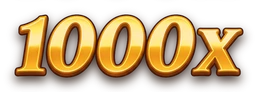
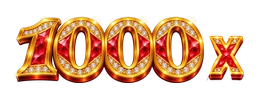
White version: new hourglass win move; new 1000x / 500x labels (equal height) on black chips; rectangular CHARGE chip in the multiplier column

diff --git a/white/src/game.js b/white/src/game.js
@@ -185,7 +185,7 @@
   if (V2ART) { add("Multipliers/chip_bg_nudge5"); add("UI/buy_button"); }
   ["title_big", "title_mega", "title_super", "title_epic", "title_max", "wp_medallion_gold", "wp_medallion_tint", "wp_banner_gold", "wp_banner_tint", "wp_tablet_gold", "wp_tablet_tint"].forEach((n) => files.push(`assets/Popup/${n}.webp`));
   ["chip_coat", "chip_glints", "chip_rim", "chip_shadow"].forEach((n) => add("Multipliers/" + n));
-  ["Multipliers/centre_frame", "UI/nudge_box", "UI/total_box", "UI/counter_screen", "UI/total_plate", "UI/cf_arrow", "vfx/winline", "vfx/winline_rest", "UI/exp_panel", "UI/exp_card_red", "UI/exp_card_amber", "UI/exp_card_purple", "UI/exp_confirm", "UI/buy_label", "UI/ex_plate", "UI/charge_badge", "UI/charge_window", "UI/charge_chev", "UI/charge_digit_0", "UI/charge_digit_1", "UI/charge_digit_2", "UI/charge_digit_3", "UI/charge_digit_4", "UI/charge_digit_5", "UI/charge_digit_6", "UI/charge_digit_7", "UI/charge_digit_8", "UI/charge_digit_9", "UI/charge_digit_slash", "UI/total_x", "UI/ex_switch_off", "UI/ex_switch_on"].forEach((p) => files.push(`assets/${p}.webp`));   // every art set uses these
+  ["Multipliers/centre_frame", "UI/nudge_box", "UI/total_box", "UI/counter_screen", "UI/total_plate", "UI/cf_arrow", "vfx/winline", "vfx/winline_rest", "UI/exp_panel", "UI/exp_card_red", "UI/exp_card_amber", "UI/exp_card_purple", "UI/exp_confirm", "UI/buy_label", "UI/ex_plate", "UI/charge_badge", "UI/charge_window", "UI/charge_chev", "UI/charge_digit_0", "UI/charge_digit_1", "UI/charge_digit_2", "UI/charge_digit_3", "UI/charge_digit_4", "UI/charge_digit_5", "UI/charge_digit_6", "UI/charge_digit_7", "UI/charge_digit_8", "UI/charge_digit_9", "UI/charge_digit_slash", "UI/total_x", "UI/charge_rect", "UI/charge_rect_window", "UI/ex_switch_off", "UI/ex_switch_on"].forEach((p) => files.push(`assets/${p}.webp`));   // every art set uses these
   if (GPASS) ["Board/panel_dark", "Board/tile_low", "Board/tile_low_blur", "Board/tray_dark", "Board/plinth_slim", "Board/plinth_fade", "Board/frame_stone"].forEach((p) => files.push(`assets/${p}.webp`));
   if (COINS) { Engine.MULT_VALUES.forEach((v) => files.push(`assets/Multipliers/coin_${v}.webp`)); ["coin_shadow", "coin_rim", "centre_frame_thin"].forEach((n) => files.push(`assets/Multipliers/${n}.webp`)); }
   ["autoplay", "autoplay_shadow", "balance_bar_border", "balance_bar_fill", "bet_window_border", "bet_window_fill",
@@ -562,7 +562,7 @@
   const magicFilters = [];
   // white: the CHARGE badge in the chip box (badge art 262 x 256 px; its window centre and size in badge px)
   let colDimK = 0;                                     // white: win spotlight on the column (0 = off)
-  const CB = { k: 0.57, wx: 0.6, wy: -34.9, ww: 137.6, wh: 82.8, dk: 0.42 };
+  const CB = { k: 0.44, wx: 0.9, wy: -39.6, ww: 258.9, wh: 80.9, dk: 0.5 };   // white 2026-11-13: the rectangular CHARGE chip
   // WHITE VERSION (user 2026-11-11: "multiplier chips equal or upper 25 should have a glowing or burning frame so they will
   // be visible during the scroll"): a soft fire glow behind the chip and a hot rim line over it, tinted per value
   const HOT_COL = { 25: 0xff7a14, 50: 0xff5a10, 100: 0xff3a10, 200: 0xff4a0c, 500: 0xff6a08, 1000: 0xffa020 };
@@ -624,19 +624,20 @@
     chargeBuild() {
       const cs = (t) => { const s = new PIXI.Sprite(T(t)); s.anchor.set(0.5); return s; };
       this.cb = new PIXI.Container(); this.cb.visible = false; this.cb.scale.set(CB.k); this.inner.addChild(this.cb);
-      this.cbBadge = cs("UI/charge_badge");
+      this.cbBadge = cs("UI/charge_rect");
       this.cbWin = new PIXI.Container(); this.cbWin.position.set(CB.wx, CB.wy); this.cbWin.visible = false;
       this.cbChev = cs("UI/charge_chev"); this.cbNum = new PIXI.Container();
       const m = new PIXI.Graphics().beginFill(0xffffff).drawRect(-CB.ww / 2, -CB.wh / 2, CB.ww, CB.wh).endFill();
-      this.cbWin.addChild(cs("UI/charge_window"), this.cbChev, this.cbNum, m); this.cbWin.mask = m;
-      this.cbGlow = cs("UI/charge_window"); this.cbGlow.position.set(CB.wx, CB.wy); this.cbGlow.blendMode = PIXI.BLEND_MODES.ADD; this.cbGlow.alpha = 0;
+      this.cbWin.addChild(cs("UI/charge_rect_window"), this.cbChev, this.cbNum, m); this.cbWin.mask = m;
+      this.cbGlow = cs("UI/charge_rect_window"); this.cbGlow.position.set(CB.wx, CB.wy); this.cbGlow.blendMode = PIXI.BLEND_MODES.ADD; this.cbGlow.alpha = 0;
       this.cbHalo = new PIXI.Sprite(FX.tex.glow); this.cbHalo.anchor.set(0.5); this.cbHalo.tint = 0xb050ff; this.cbHalo.blendMode = PIXI.BLEND_MODES.ADD;
-      this.cbHalo.scale.set(300 / this.cbHalo.texture.width); this.cbHalo.alpha = 0.55;                            // a soft purple glow: it pops on the dark tray
+      this.cbHalo.scale.set(300 / this.cbHalo.texture.width); this.cbHalo.alpha = 0.3;                            // a soft purple glow: it pops on the dark tray
       this.cb.addChild(this.cbHalo, this.cbBadge, this.cbWin, this.cbGlow);
     }
     chargeSet() {
       const ch = this.v < 0;
-      this.cb.visible = ch; this.cbWin.visible = false; this.cbGlow.alpha = 0;
+      this.cb.visible = ch; this.cbWin.visible = ch; this.cbGlow.alpha = 0;   // white: chevrons in the window at rest
+      this.cbChev.y = 0; this.cbChev.alpha = 1; this.cbNum.removeChildren().forEach((c) => c.destroy());
       gsap.killTweensOf(this.cbChev); gsap.killTweensOf(this.cbNum); gsap.killTweensOf(this.cbNum.scale);
       [this.bg, this.rim, this.shadow].forEach((s) => (s.renderable = !ch)); this.label.visible = !ch;
     }

diff --git a/white/src/gx_symbols.js b/white/src/gx_symbols.js
@@ -156,8 +156,58 @@ GX.plugin(function (ctx) {
     A.every(1.2, 0.5, () => P.emit({ tex: FX.tex.spark, x: rnd(-70, 70), y: rnd(-60, 60), vy: -20, s0: 0.05, s1: 0.3, life: 0.5, a0: 1, a1: 0, vr: 3, tint: Math.random() < 0.5 ? col : hi }));
   }
 
-  // ---------- hourglass ----------
+  // ---------- hourglass, white (user 2026-11-13: "the sandclock animation is too bad, fix it") ----------
   function hourglass(d, A) {
+    const h = A.hero, fx = A.fx(), P = A.parts(fx);
+    const GOLD = 0xffd060, HOT = 0xfff0b0;
+    // a soft violet light behind the glass (inside the tile)
+    const back = A.behind();
+    const bg = spr(FX.tex.glow, back, { tint: 0x9a5cff, s: 0.8, sy: 0.95, alpha: 0 });
+    A.tw(gsap.to(bg, { alpha: 0.55, duration: 0.3 }));
+    // the turn: lift, a full turn, an elastic landing (ends upright)
+    A.tw(gsap.timeline({ delay: 0.04 })
+      .to(h.scale, { x: 1.12, y: 1.12, duration: 0.16, ease: "power2.out" })
+      .to(h, { rotation: "+=" + TAU, duration: 0.78, ease: "power2.inOut" }, "-=0.02")
+      .to(h.scale, { x: 1.06, y: 0.94, duration: 0.07, ease: "power2.in" }, "-=0.06")
+      .to(h.scale, { x: 1, y: 1, duration: 0.6, ease: "elastic.out(1,0.42)" })
+      .call(() => { landed(); }));
+    // light in the glass: an additive copy of the art, masked to the glass, breathing while the sand runs
+    const lit = spr(h.texture, fx, { tint: 0xffc860, alpha: 0 }), litM = spr(FX.tex.glow, fx, { blend: NORMAL, y: -4, s: 0.5, sy: 0.62 });
+    lit.mask = litM;
+    A.onStep(() => { lit.position.set(h.x, h.y); lit.scale.copyFrom(h.scale); lit.rotation = h.rotation; });
+    const ring = (delay, s1, tint, life) => A.later(delay, () => {
+      const r = spr(FX.tex.ring, fx, { tint, s: 0.3, alpha: 1 });
+      A.tw(gsap.to(r.scale, { x: s1, y: s1 * 0.92, duration: life, ease: "power2.out" }));
+      A.tw(gsap.to(r, { alpha: 0, duration: life, ease: "power1.in" }));
+    });
+    let flow = false;
+    function landed() {
+      ring(0, 1.5, GOLD, 0.6); ring(0.14, 1.9, yel(0xb070ff), 0.65);
+      for (let i = 0; i < N(12); i++) {
+        const a = rnd(0, TAU), sp = rnd(220, 380);
+        P.emit({ tex: FX.tex.spark, x: Math.cos(a) * 30, y: Math.sin(a) * 30, vx: Math.cos(a) * sp, vy: Math.sin(a) * sp, drag: 3,
+          s0: 0.3, s1: 0.05, life: 0.5, tint: i % 2 ? GOLD : HOT, stretch: 260 });
+      }
+      flow = true;
+      A.tw(gsap.timeline().to(lit, { alpha: 0.6, duration: 0.2 }).to(lit, { alpha: 0.35, duration: 0.9, ease: "sine.inOut", yoyo: true, repeat: -1 }));
+      A.tw(gsap.to(h.scale, { x: 1.03, y: 1.03, duration: 1.1, ease: "sine.inOut", yoyo: true, repeat: -1, delay: 0.6 }));
+    }
+    // the sand: a thin gold stream from the neck into the lower bulb, a glint on the heap now and then
+    let acc = 0, gl = 0;
+    A.onStep((dt) => {
+      if (!flow) return;
+      acc += dt * (MOBILE ? 22 : 40);
+      while (acc >= 1) { acc -= 1;
+        P.emit({ tex: FX.tex.spark, x: rnd(-1.5, 1.5), y: rnd(-8, -2), vy: rnd(150, 190), s0: 0.11, s1: 0.08, life: rnd(0.2, 0.26), a0: 0.95, a1: 0.5, tint: Math.random() < 0.3 ? HOT : GOLD, stretch: 90 });
+      }
+      gl -= dt;
+      if (gl < 0) { gl = rnd(0.25, 0.5);
+        P.emit({ tex: FX.tex.dot, x: rnd(-26, 26), y: rnd(34, 46), vy: -8, s0: 0.05, s1: 0.16, life: 0.4, a0: 1, a1: 0, tint: HOT }); }
+    });
+  }
+
+  // ---------- hourglass (old, unused) ----------
+  function hourglassOld(d, A) {
     const h = A.hero, P = A.parts(A.fx());
     const back = A.behind();
     const sh = spr(FX.tex.glow, back, { tint: 0x9a5cff, s: 0.9, sy: 1.05, alpha: 0 });

diff --git a/white/index.html b/white/index.html
@@ -46,22 +46,22 @@
 <script src="lib/pixi-filters.js"></script>
 <script src="lib/gsap.min.js"></script>
 <script src="lib/CustomEase.min.js"></script>
-<script src="src/engine.js?b=11131619"></script>
-<script src="src/audio.js?b=11131619"></script>
-<script src="src/sfx.js?b=11131619"></script>
-<script src="src/fx.js?b=11131619"></script>
-<script src="src/vfx.js?b=11131619"></script>
-<script src="src/buy.js?b=11131619"></script>
-<script src="src/segvideo.js?b=11131619"></script>
-<script src="src/gx.js?b=11131619"></script>
-<script src="src/game.js?b=11131619"></script>
-<script src="src/gx_popup.js?b=11131619"></script>
-<script src="src/gx_feature.js?b=11131619"></script>
-<script src="src/gx_picker.js?b=11131619"></script>
-<script src="src/gx_symbols.js?b=11131619"></script>
-<script src="src/gx_intro.js?b=11131619"></script>
-<script src="src/gx_halo.js?b=11131619"></script>
-<script src="src/gx_rays.js?b=11131619"></script>
-<script src="src/gx_fire.js?b=11131619"></script>
+<script src="src/engine.js?b=11131641"></script>
+<script src="src/audio.js?b=11131641"></script>
+<script src="src/sfx.js?b=11131641"></script>
+<script src="src/fx.js?b=11131641"></script>
+<script src="src/vfx.js?b=11131641"></script>
+<script src="src/buy.js?b=11131641"></script>
+<script src="src/segvideo.js?b=11131641"></script>
+<script src="src/gx.js?b=11131641"></script>
+<script src="src/game.js?b=11131641"></script>
+<script src="src/gx_popup.js?b=11131641"></script>
+<script src="src/gx_feature.js?b=11131641"></script>
+<script src="src/gx_picker.js?b=11131641"></script>
+<script src="src/gx_symbols.js?b=11131641"></script>
+<script src="src/gx_intro.js?b=11131641"></script>
+<script src="src/gx_halo.js?b=11131641"></script>
+<script src="src/gx_rays.js?b=11131641"></script>
+<script src="src/gx_fire.js?b=11131641"></script>
 </body>
 </html>
